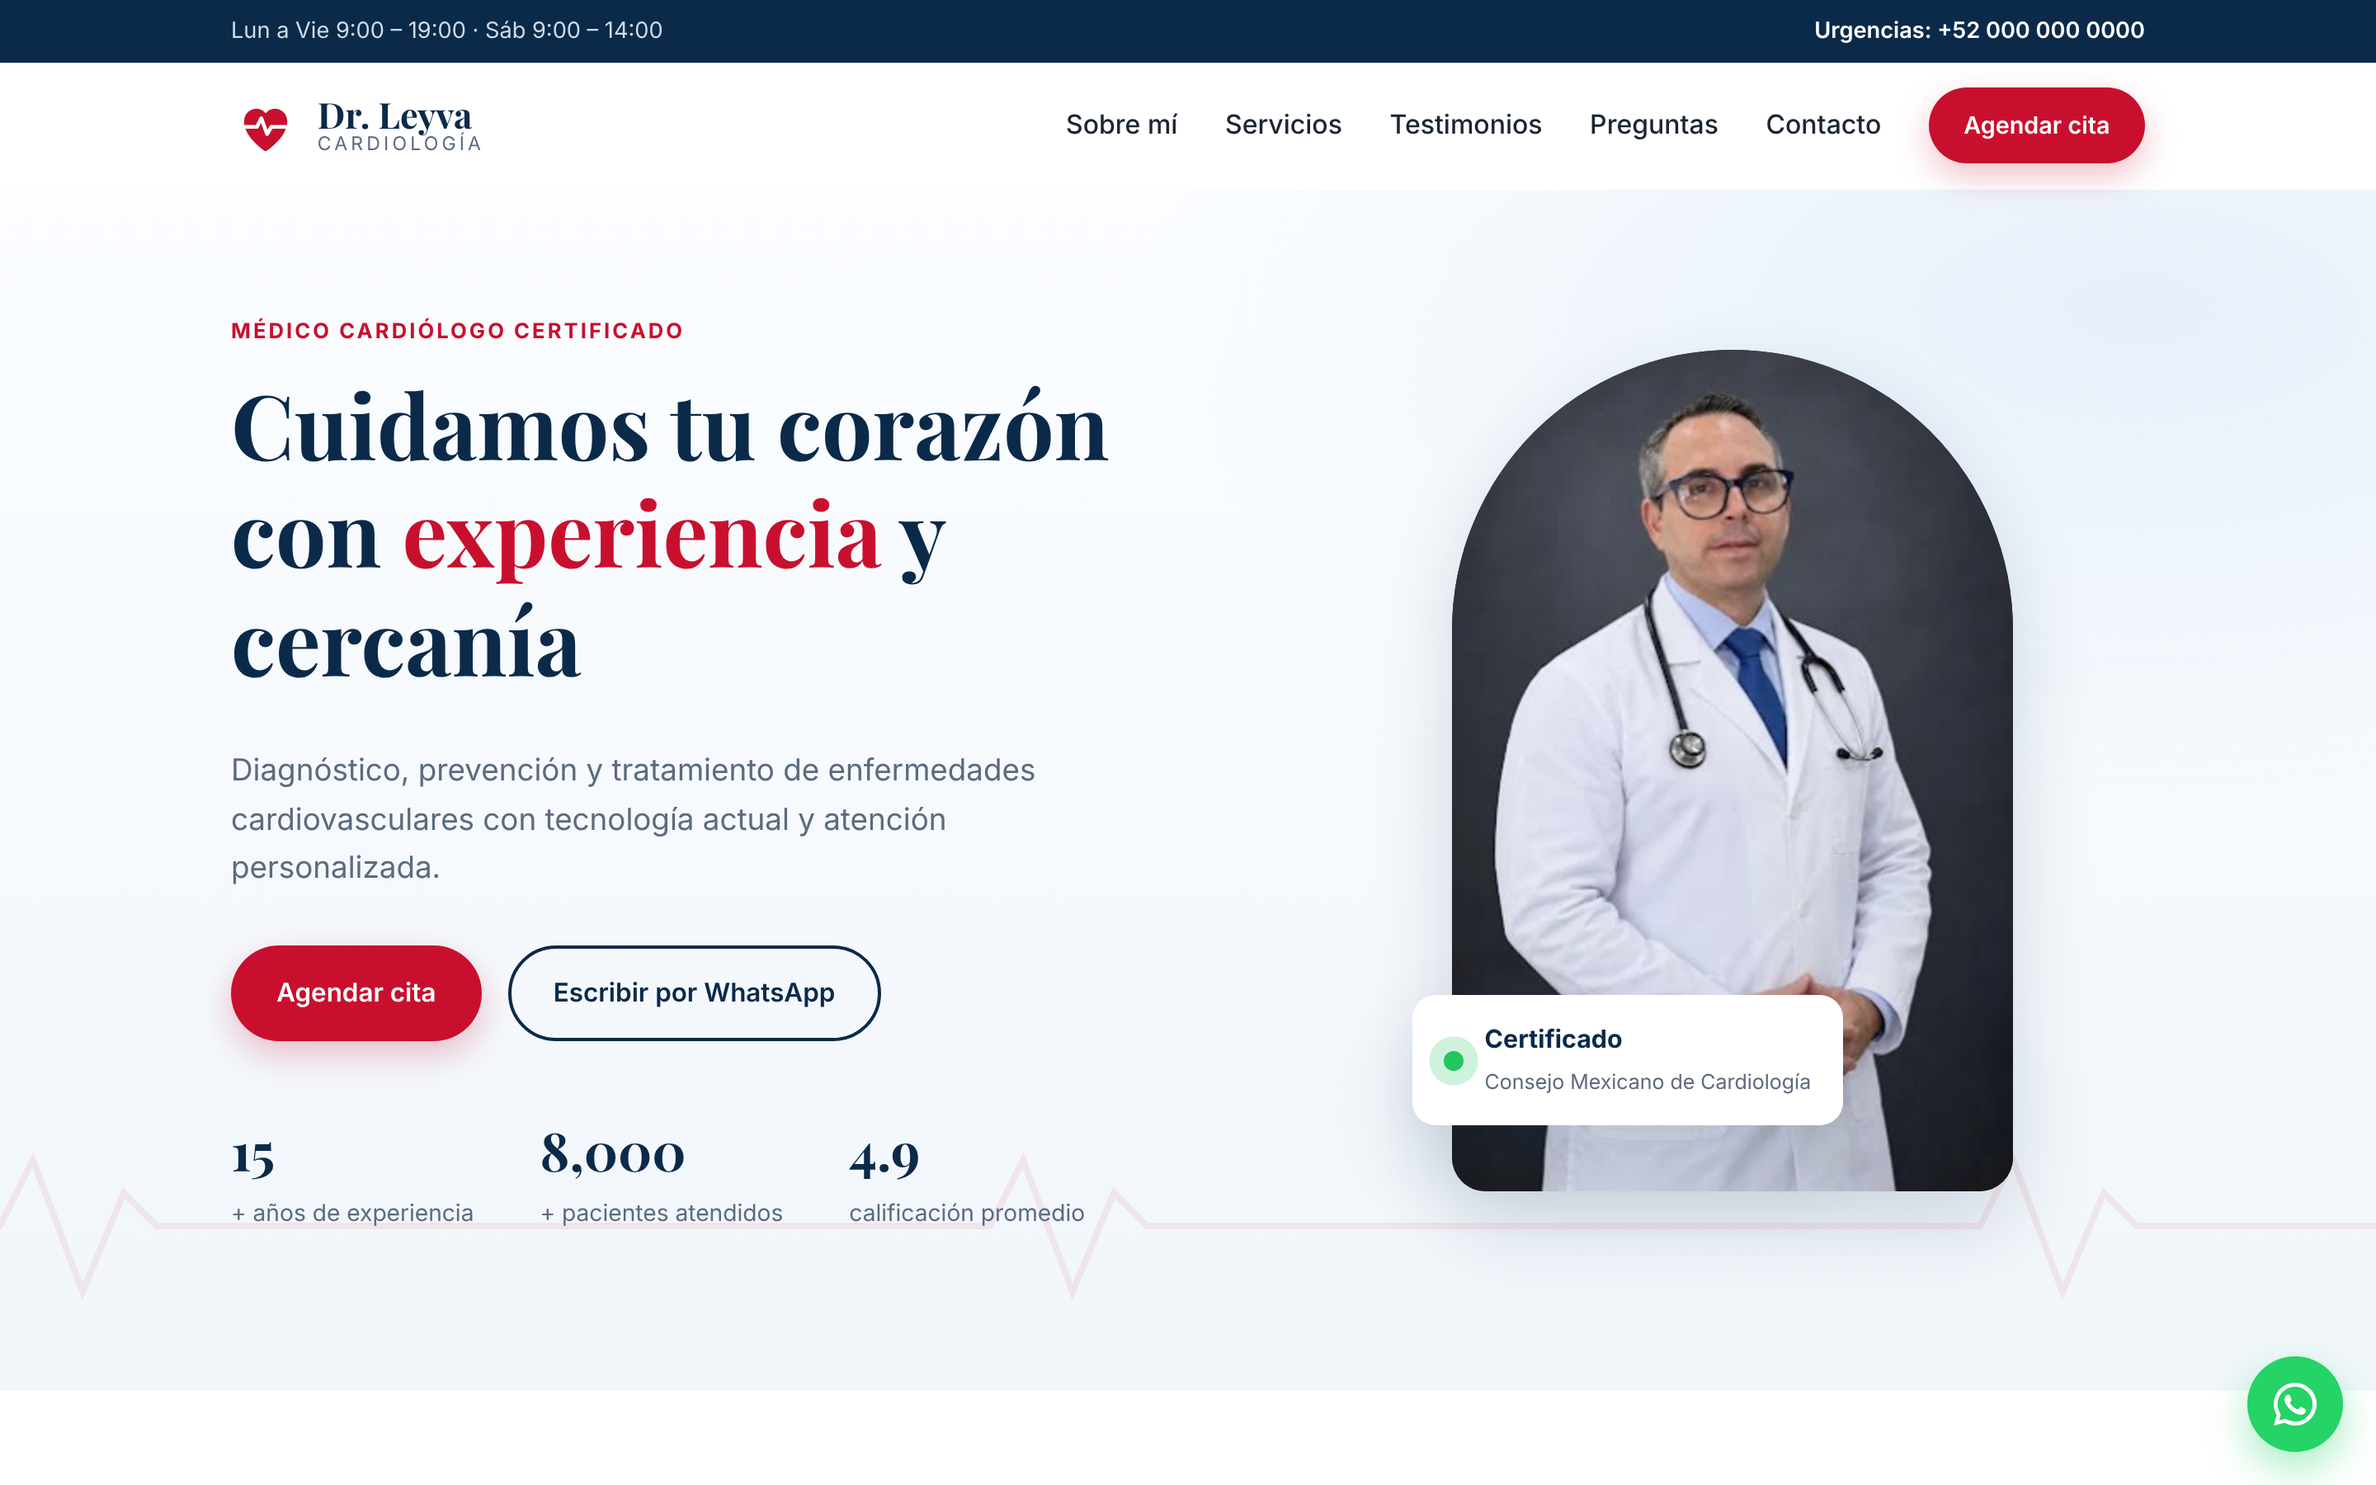
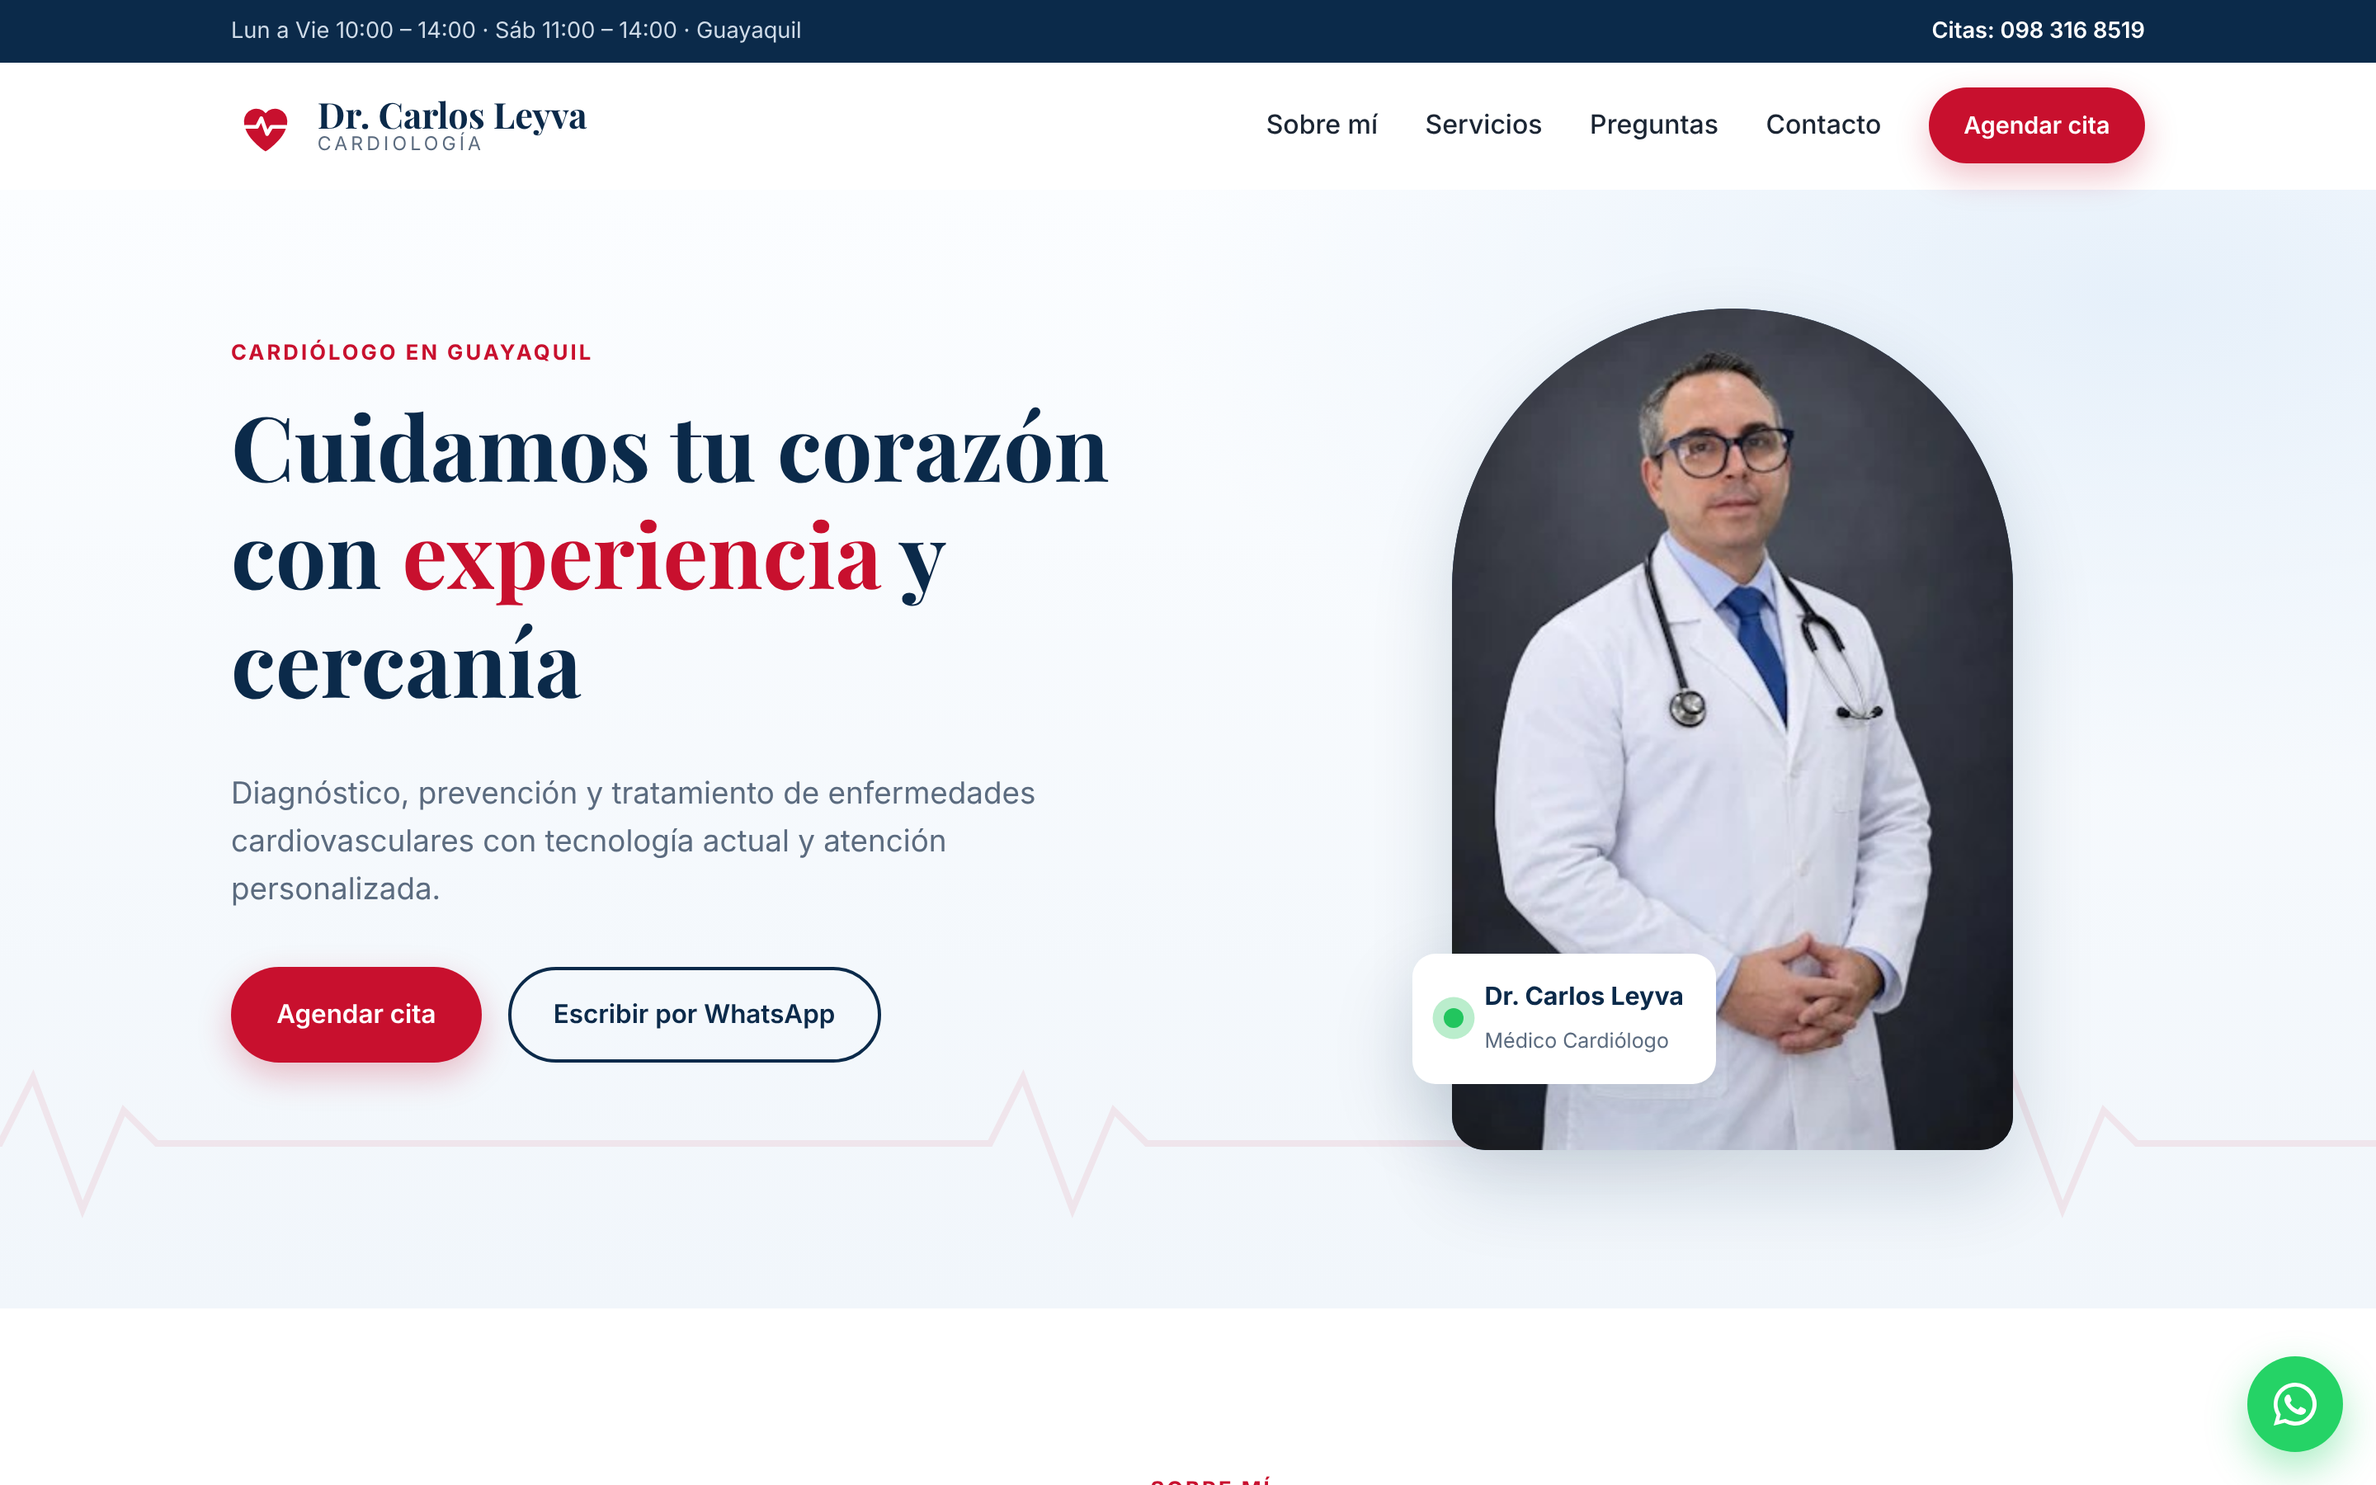
Datos reales del Dr. Carlos Leyva en Guayaquil
Claude-Session: https://claude.ai/code/session_0112m6NQJxNgCgHi11rphFs3

diff --git a/index.html b/index.html
@@ -3,8 +3,8 @@
 <head>
   <meta charset="utf-8">
   <meta name="viewport" content="width=device-width, initial-scale=1">
-  <title>Dr. Leyva | Cardiólogo</title>
-  <meta name="description" content="Dr. Leyva, médico cardiólogo. Consulta cardiológica, electrocardiograma, ecocardiograma, prueba de esfuerzo y Holter. Agenda tu cita.">
+  <title>Dr. Carlos Leyva | Cardiólogo en Guayaquil</title>
+  <meta name="description" content="Dr. Carlos Leyva, médico cardiólogo en Guayaquil, Ecuador. Consulta cardiológica, electrocardiograma, ecocardiograma, prueba de esfuerzo y Holter. Agenda tu cita.">
   <meta name="theme-color" content="#0b2a4a">
   <link rel="icon" href="assets/favicon.svg" type="image/svg+xml">
   <link rel="preconnect" href="https://fonts.googleapis.com">
@@ -15,10 +15,11 @@
   {
     "@context": "https://schema.org",
     "@type": "Physician",
-    "name": "Dr. Leyva",
+    "name": "Dr. Carlos Leyva",
     "medicalSpecialty": "Cardiovascular",
-    "telephone": "+52 000 000 0000",
-    "address": {"@type": "PostalAddress", "streetAddress": "Dirección del consultorio", "addressCountry": "MX"}
+    "telephone": "+593 98 316 8519",
+    "openingHours": ["Mo-Fr 10:00-14:00", "Sa 11:00-14:00"],
+    "address": {"@type": "PostalAddress", "streetAddress": "Calle Francisco Urbina Jado, Av. del Periodista y San Jorge esquina, 103", "addressLocality": "Guayaquil", "postalCode": "090112", "addressCountry": "EC"}
   }
   </script>
 </head>
@@ -27,8 +28,8 @@
   <!-- Barra superior -->
   <div class="topbar">
     <div class="container topbar-inner">
-      <span>Lun a Vie 9:00 – 19:00 · Sáb 9:00 – 14:00</span>
-      <a href="tel:+520000000000">Urgencias: +52 000 000 0000</a>
+      <span>Lun a Vie 10:00 – 14:00 · Sáb 11:00 – 14:00 · Guayaquil</span>
+      <a href="tel:+593983168519">Citas: 098 316 8519</a>
     </div>
   </div>
 
@@ -37,13 +38,12 @@
     <div class="container nav">
       <a href="#inicio" class="brand" aria-label="Inicio">
         <svg class="brand-icon" viewBox="0 0 48 48" aria-hidden="true"><path d="M24 42s-15-9.2-15-21a8.5 8.5 0 0 1 15-5.5A8.5 8.5 0 0 1 39 21c0 11.8-15 21-15 21z" fill="#c8102e"/><path d="M10 25h8l3-6 4 11 3-5h10" fill="none" stroke="#fff" stroke-width="2.6" stroke-linecap="round" stroke-linejoin="round"/></svg>
-        <span><strong>Dr. Leyva</strong><small>Cardiología</small></span>
+        <span><strong>Dr. Carlos Leyva</strong><small>Cardiología</small></span>
       </a>
       <button class="nav-toggle" id="navToggle" aria-label="Abrir menú" aria-expanded="false"><span></span><span></span><span></span></button>
       <nav class="menu" id="menu">
         <a href="#sobre-mi">Sobre mí</a>
         <a href="#servicios">Servicios</a>
-        <a href="#testimonios">Testimonios</a>
         <a href="#faq">Preguntas</a>
         <a href="#contacto">Contacto</a>
         <a href="#cita" class="btn btn-primary btn-sm">Agendar cita</a>
@@ -56,26 +56,21 @@
     <section class="hero" id="inicio">
       <div class="container hero-grid">
         <div class="hero-text reveal">
-          <span class="eyebrow">Médico Cardiólogo Certificado</span>
+          <span class="eyebrow">Cardiólogo en Guayaquil</span>
           <h1>Cuidamos tu corazón con <em>experiencia</em> y cercanía</h1>
           <p class="lead">Diagnóstico, prevención y tratamiento de enfermedades cardiovasculares con tecnología actual y atención personalizada.</p>
           <div class="hero-cta">
             <a href="#cita" class="btn btn-primary">Agendar cita</a>
-            <a href="https://wa.me/520000000000" class="btn btn-outline" target="_blank" rel="noopener">Escribir por WhatsApp</a>
+            <a href="https://wa.me/593983168519" class="btn btn-outline" target="_blank" rel="noopener">Escribir por WhatsApp</a>
           </div>
-          <ul class="stats">
-            <li><strong data-count="15">0</strong><span>+ años de experiencia</span></li>
-            <li><strong data-count="8000">0</strong><span>+ pacientes atendidos</span></li>
-            <li><strong>4.9</strong><span>calificación promedio</span></li>
-          </ul>
         </div>
         <div class="hero-media reveal">
           <div class="photo-frame">
-            <img src="assets/doctor.jpg" alt="Dr. Leyva, médico cardiólogo" width="340" height="510">
+            <img src="assets/doctor.jpg" alt="Dr. Carlos Leyva, médico cardiólogo en Guayaquil" width="340" height="510">
           </div>
           <div class="badge-card">
             <span class="pulse"></span>
-            <div><strong>Certificado</strong><small>Consejo Mexicano de Cardiología</small></div>
+            <div><strong>Dr. Carlos Leyva</strong><small>Médico Cardiólogo</small></div>
           </div>
         </div>
       </div>
@@ -91,14 +86,14 @@
               <li><span>Medicina</span>Médico Cirujano – Universidad (editar)</li>
               <li><span>Especialidad</span>Cardiología – Hospital / Universidad (editar)</li>
               <li><span>Alta especialidad</span>Ecocardiografía / Intervencionismo (editar)</li>
-              <li><span>Membresías</span>Sociedad Mexicana de Cardiología (editar)</li>
+              <li><span>Membresías</span>Sociedad Ecuatoriana de Cardiología (editar)</li>
             </ul>
           </div>
         </div>
         <div class="about-text reveal">
           <span class="eyebrow">Sobre mí</span>
           <h2>Medicina basada en evidencia, trato humano</h2>
-          <p>Soy el Dr. Leyva, médico especialista en Cardiología. Mi objetivo es que cada paciente entienda su diagnóstico, conozca sus opciones y reciba un tratamiento claro y efectivo.</p>
+          <p>Soy el Dr. Carlos Leyva, médico especialista en Cardiología. Mi objetivo es que cada paciente entienda su diagnóstico, conozca sus opciones y reciba un tratamiento claro y efectivo.</p>
           <p>Atiendo hipertensión, arritmias, insuficiencia cardiaca, cardiopatía isquémica y control de factores de riesgo, con un enfoque preventivo para mejorar tu calidad de vida.</p>
           <ul class="checks">
             <li>Atención personalizada y sin prisas</li>
@@ -163,33 +158,6 @@
       </div>
     </section>
 
-    <!-- Testimonios -->
-    <section class="section" id="testimonios">
-      <div class="container">
-        <div class="section-head reveal">
-          <span class="eyebrow">Testimonios</span>
-          <h2>Lo que dicen mis pacientes</h2>
-        </div>
-        <div class="testimonials">
-          <figure class="testimonial reveal">
-            <div class="stars" aria-label="5 de 5 estrellas">★★★★★</div>
-            <blockquote>“Excelente médico, explica todo con paciencia y claridad. Me sentí en muy buenas manos.”</blockquote>
-            <figcaption>— Paciente (ejemplo)</figcaption>
-          </figure>
-          <figure class="testimonial reveal">
-            <div class="stars" aria-label="5 de 5 estrellas">★★★★★</div>
-            <blockquote>“Puntual, profesional y muy humano. Gracias a su tratamiento controlé mi presión.”</blockquote>
-            <figcaption>— Paciente (ejemplo)</figcaption>
-          </figure>
-          <figure class="testimonial reveal">
-            <div class="stars" aria-label="5 de 5 estrellas">★★★★★</div>
-            <blockquote>“Los estudios se hicieron el mismo día en el consultorio. Muy recomendable.”</blockquote>
-            <figcaption>— Paciente (ejemplo)</figcaption>
-          </figure>
-        </div>
-      </div>
-    </section>
-
     <!-- FAQ -->
     <section class="section section-alt" id="faq">
       <div class="container faq-wrap">
@@ -208,7 +176,7 @@
           </details>
           <details>
             <summary>¿Aceptan seguros de gastos médicos?</summary>
-            <p>Sí, trabajamos con las principales aseguradoras. Consulta disponibilidad al agendar tu cita.</p>
+            <p>Consulta la cobertura de tu seguro al agendar tu cita por teléfono o WhatsApp.</p>
           </details>
           <details>
             <summary>¿Cuánto dura la consulta?</summary>
@@ -226,9 +194,9 @@
           <h2>Agenda tu cita</h2>
           <p>Completa el formulario y te enviaremos la confirmación por WhatsApp.</p>
           <ul class="info-list">
-            <li><svg viewBox="0 0 24 24"><path d="M12 22s7-6.2 7-12a7 7 0 0 0-14 0c0 5.8 7 12 7 12z"/><circle cx="12" cy="10" r="2.5"/></svg><div><strong>Consultorio</strong><span>Dirección del consultorio, Ciudad (editar)</span></div></li>
-            <li><svg viewBox="0 0 24 24"><path d="M5 4h4l2 5-2.5 1.5a11 11 0 0 0 5 5L15 13l5 2v4a2 2 0 0 1-2 2A16 16 0 0 1 3 6a2 2 0 0 1 2-2"/></svg><div><strong>Teléfono</strong><a href="tel:+520000000000">+52 000 000 0000</a></div></li>
-            <li><svg viewBox="0 0 24 24"><circle cx="12" cy="12" r="9"/><path d="M12 7v5l3 2"/></svg><div><strong>Horario</strong><span>Lun a Vie 9:00 – 19:00 · Sáb 9:00 – 14:00</span></div></li>
+            <li><svg viewBox="0 0 24 24"><path d="M12 22s7-6.2 7-12a7 7 0 0 0-14 0c0 5.8 7 12 7 12z"/><circle cx="12" cy="10" r="2.5"/></svg><div><strong>Consultorio</strong><span>Calle Francisco Urbina Jado, Av. del Periodista y San Jorge esquina, 103 – Kennedy, Guayaquil</span></div></li>
+            <li><svg viewBox="0 0 24 24"><path d="M5 4h4l2 5-2.5 1.5a11 11 0 0 0 5 5L15 13l5 2v4a2 2 0 0 1-2 2A16 16 0 0 1 3 6a2 2 0 0 1 2-2"/></svg><div><strong>Teléfono</strong><a href="tel:+593983168519">098 316 8519</a></div></li>
+            <li><svg viewBox="0 0 24 24"><circle cx="12" cy="12" r="9"/><path d="M12 7v5l3 2"/></svg><div><strong>Horario</strong><span>Lun a Vie 10:00 – 14:00 · Sáb 11:00 – 14:00 · Dom cerrado</span></div></li>
           </ul>
         </div>
         <form class="form reveal" id="citaForm" novalidate>
@@ -270,7 +238,7 @@
     <!-- Mapa -->
     <section class="map">
       <iframe title="Ubicación del consultorio" loading="lazy" referrerpolicy="no-referrer-when-downgrade"
-        src="https://www.google.com/maps?q=Hospital&output=embed"></iframe>
+        src="https://www.google.com/maps?q=Dr.+Carlos+Leyva+Cardiologo+Guayaquil+Calle+Francisco+Urbina+Jado&output=embed"></iframe>
     </section>
   </main>
 
@@ -279,9 +247,9 @@
       <div>
         <a href="#inicio" class="brand brand-light">
           <svg class="brand-icon" viewBox="0 0 48 48" aria-hidden="true"><path d="M24 42s-15-9.2-15-21a8.5 8.5 0 0 1 15-5.5A8.5 8.5 0 0 1 39 21c0 11.8-15 21-15 21z" fill="#c8102e"/><path d="M10 25h8l3-6 4 11 3-5h10" fill="none" stroke="#fff" stroke-width="2.6" stroke-linecap="round" stroke-linejoin="round"/></svg>
-          <span><strong>Dr. Leyva</strong><small>Cardiología</small></span>
+          <span><strong>Dr. Carlos Leyva</strong><small>Cardiología</small></span>
         </a>
-        <p>Cédula profesional: 0000000 · Cédula de especialidad: 0000000</p>
+        <p>Calle Francisco Urbina Jado, Av. del Periodista y San Jorge esquina, 103 · Guayaquil, Ecuador</p>
       </div>
       <div>
         <h4>Enlaces</h4>
@@ -289,14 +257,14 @@
       </div>
       <div>
         <h4>Contacto</h4>
-        <a href="tel:+520000000000">+52 000 000 0000</a>
-        <a href="https://wa.me/520000000000" target="_blank" rel="noopener">WhatsApp</a>
+        <a href="tel:+593983168519">098 316 8519</a>
+        <a href="https://wa.me/593983168519" target="_blank" rel="noopener">WhatsApp</a>
       </div>
     </div>
-    <p class="copy">© <span id="year"></span> Dr. Leyva · Cardiología. Todos los derechos reservados.</p>
+    <p class="copy">© <span id="year"></span> Dr. Carlos Leyva · Cardiología. Todos los derechos reservados.</p>
   </footer>
 
-  <a href="https://wa.me/520000000000" class="wa-float" target="_blank" rel="noopener" aria-label="WhatsApp">
+  <a href="https://wa.me/593983168519" class="wa-float" target="_blank" rel="noopener" aria-label="WhatsApp">
     <svg viewBox="0 0 32 32"><path fill="#fff" d="M16 3a13 13 0 0 0-11.2 19.6L3 29l6.6-1.7A13 13 0 1 0 16 3zm0 23.6a10.6 10.6 0 0 1-5.4-1.5l-.4-.2-3.9 1 1-3.8-.3-.4A10.6 10.6 0 1 1 16 26.6zm5.8-7.9c-.3-.2-1.9-.9-2.2-1s-.5-.2-.7.2-.8 1-1 1.2-.4.2-.7 0a8.7 8.7 0 0 1-4.3-3.7c-.3-.6.3-.5.9-1.7a.6.6 0 0 0 0-.5l-1-2.4c-.3-.6-.5-.5-.7-.5h-.6a1.2 1.2 0 0 0-.9.4 3.6 3.6 0 0 0-1.1 2.7 6.3 6.3 0 0 0 1.3 3.3 14.4 14.4 0 0 0 5.5 4.9c2 .9 2.8.9 3.9.8a3.3 3.3 0 0 0 2.1-1.5 2.7 2.7 0 0 0 .2-1.5c-.1-.2-.3-.3-.7-.5z"/></svg>
   </a>
 

diff --git a/script.js b/script.js
@@ -1,5 +1,5 @@
 // Número de WhatsApp del consultorio (formato internacional, sin + ni espacios)
-const WHATSAPP = "520000000000";
+const WHATSAPP = "593983168519";
 
 // Menú móvil
 const toggle = document.getElementById("navToggle");
@@ -76,7 +76,7 @@ form.addEventListener("submit", (e) => {
   note.textContent = "";
   const d = Object.fromEntries(new FormData(form));
   const msg =
-    `Hola Dr. Leyva, quisiera agendar una cita.%0A` +
+    `Hola Dr. Carlos Leyva, quisiera agendar una cita.%0A` +
     `Nombre: ${encodeURIComponent(d.nombre)}%0A` +
     `Teléfono: ${encodeURIComponent(d.telefono)}%0A` +
     `Fecha preferida: ${encodeURIComponent(d.fecha)}%0A` +
